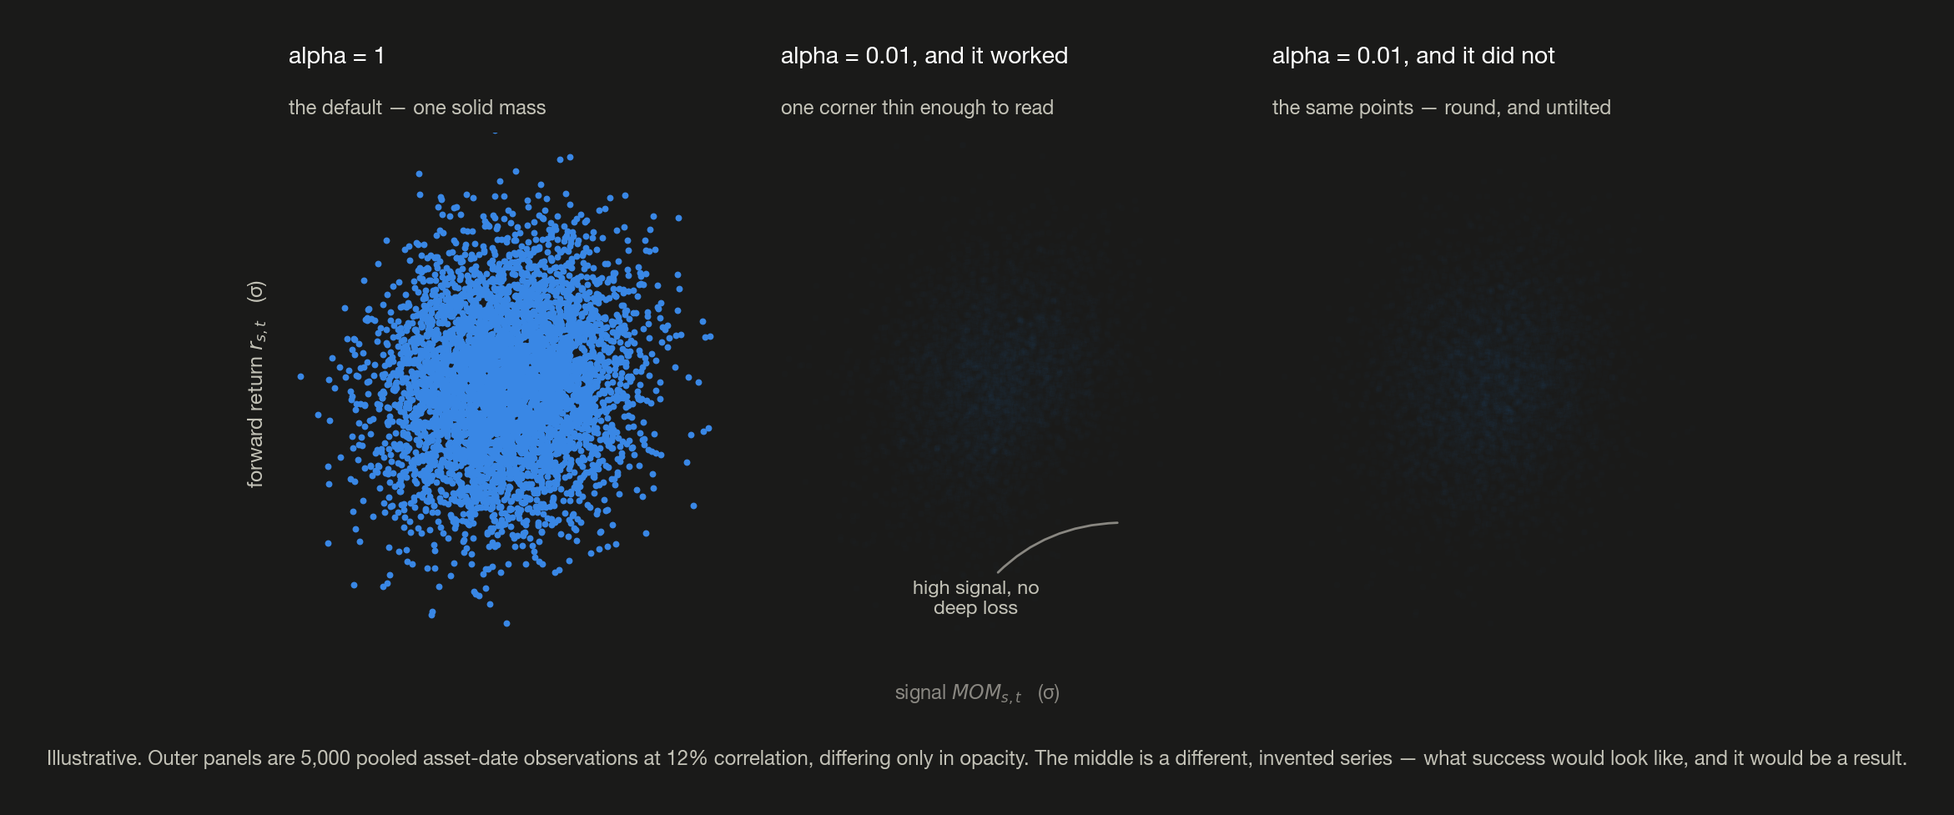
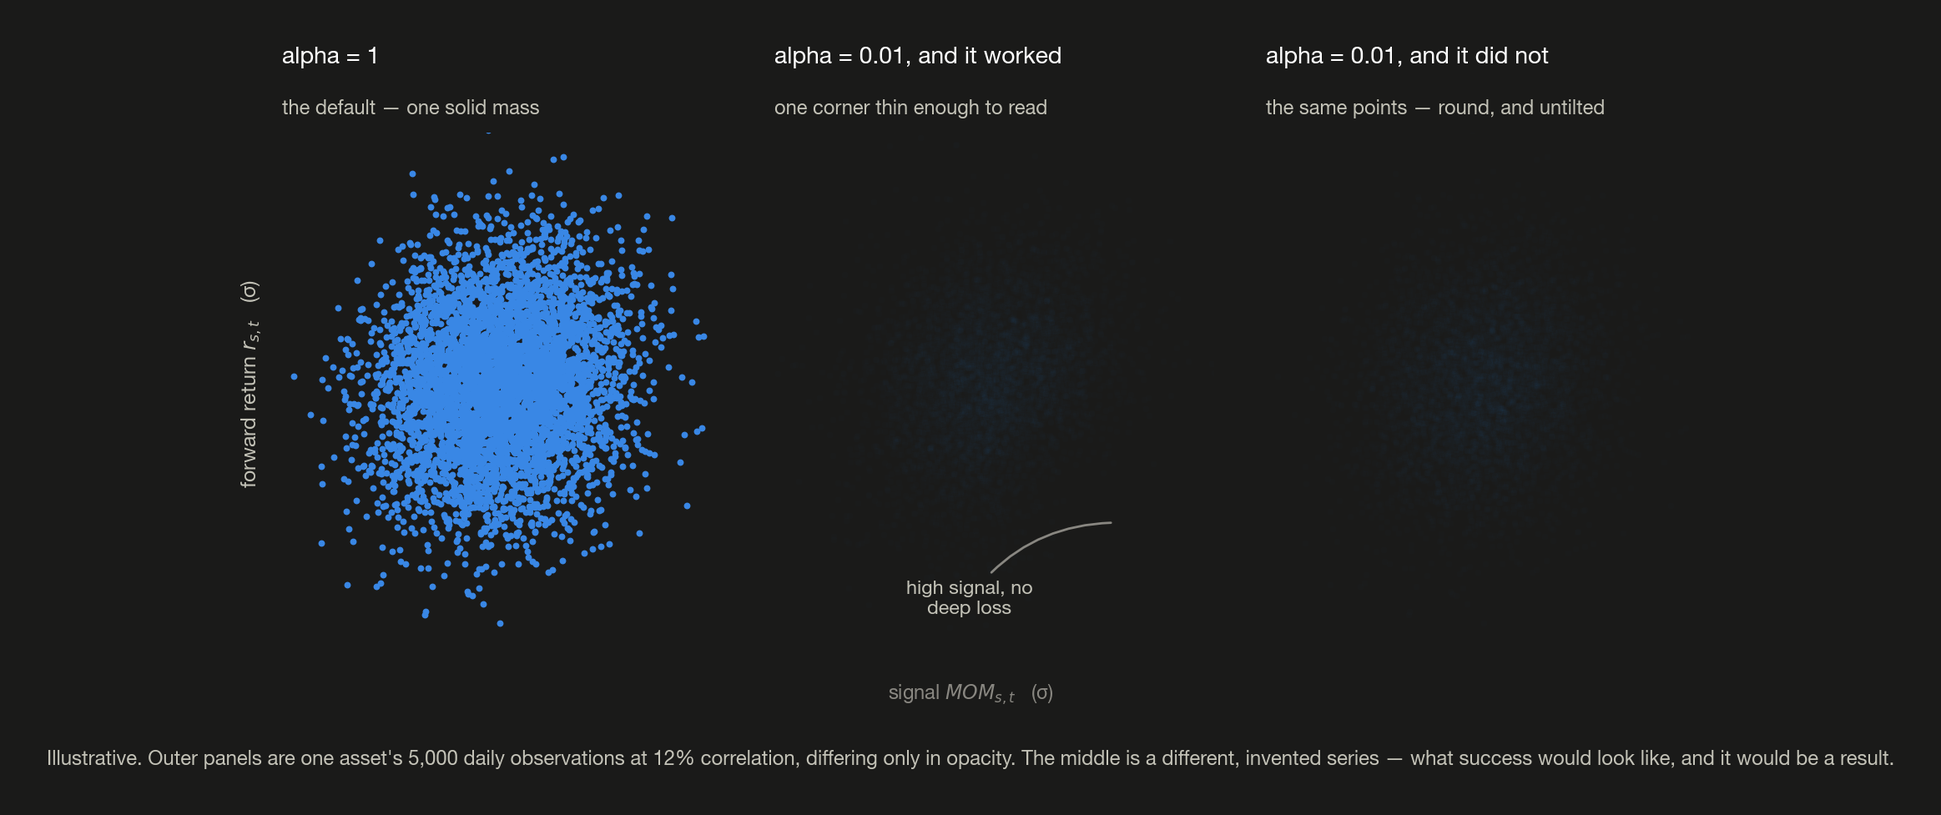
Redraw 02's bucket figures on one asset's own dates
three-bucketings runs on one asset over 6,000 days with a calm era and a
violent one, and its third cut goes back to the rolling quantile: raw values
put 68% and 71% violent-era dates in the two tails against a 40% base rate,
fixed intervals leave 159 and 157 observations in the buckets you would trade
against 3,369 in the middle, and the rolling quantile is flat at 40% with
about 1,000 everywhere. Section 5's table carries the new numbers.

bucket-time-collapse is rebuilt around the single-asset claim it now has to
make: dates strung along t, each at the slot it scored into, and the same
observations to the right with t discarded. bucket-construction and
alpha-opacity are relabelled from assets to dates.

diff --git a/docs/figures/make_02_building_signals.py b/docs/figures/make_02_building_signals.py
@@ -91,7 +91,7 @@ def alpha_opacity(mode):
     """02 s3.1 -- alpha turns ink into density; whether density reads is another matter.
 
     Schematic. Left and right are the same 5,000 illustrative points at 12%
-    correlation -- asset-date cells pooled across the panel --
+    correlation -- one asset's daily observations --
     drawn opaque and at a low opacity. The middle panel is a different,
     invented series: what the fix looks like when it works, a corner thin
     enough to read.
@@ -144,7 +144,7 @@ def alpha_opacity(mode):
                        fontsize=9, labelpad=8)
     fig.text(0.5, 0.01, "signal $MOM_{s,t}$   (σ)", ha="center", color=t["muted"], fontsize=8.5)
     fig.text(0.5, -0.09,
-             "Illustrative. Outer panels are 5,000 pooled asset-date observations at 12% "
+             "Illustrative. Outer panels are one asset's 5,000 daily observations at 12% "
              "correlation, differing only in opacity. The middle is a different, invented series — "
              "what success would look like, and it would be a result.",
              ha="center", color=t["ink_secondary"], fontsize=8.6)
@@ -170,16 +170,16 @@ def bucket_construction(mode):
     cy = 0.12 * cx + (1 - 0.12 ** 2) ** 0.5 * rng.standard_normal(n)
 
     def slots(px, py, k):
-        """k dates of five assets, each sorted by signal into rank slots G1..G5"""
+        """k draws of five dates, each sorted by signal into rank slots G1..G5"""
         idx = rng.randint(0, len(px), size=(k, 5))
         order = np.argsort(px[idx], axis=1)
         return np.take_along_axis(py[idx], order, axis=1), idx
 
     rows = (
-        (lx, ly, "If the relationship were perfect", "one date's five assets",
-         "every date comes out ordered"),
-        (cx, cy, "On the real cloud", "one date's five assets",
-         "every date comes back tangled"),
+        (lx, ly, "If the relationship were perfect", "any five dates, taken at random",
+         "every draw comes out ordered"),
+        (cx, cy, "On the real cloud", "any five dates, taken at random",
+         "every draw comes back tangled"),
     )
 
     fig, axes = plt.subplots(2, 3, figsize=(10.6, 6.6),
@@ -188,7 +188,7 @@ def bucket_construction(mode):
 
     for (px, py, head, sub, mid_sub), (ax, bx, cxx) in zip(rows, axes):
         ranked, idx = slots(px, py, shown)
-        picked = idx[:3].ravel()                     # three dates' worth, one colour
+        picked = idx[:3].ravel()                     # three draws' worth, one colour
 
         # ---- where the points come from
         style_axes(ax, t, ylabel="forward return $r_{s,t}$",
@@ -208,7 +208,7 @@ def bucket_construction(mode):
         bx.set_xticks(range(5))
         bx.set_xticklabels(["G1", "G2", "G3", "G4", "G5"])
         bx.set_yticks([])
-        titles(bx, t, f"{shown} dates, ranked", mid_sub)
+        titles(bx, t, f"{shown} draws, ranked", mid_sub)
 
         # ---- and the average of many, with the error on it
         allr, _ = slots(px, py, total)
@@ -227,7 +227,7 @@ def bucket_construction(mode):
         cxx.set_xticks(range(5))
         cxx.set_xticklabels(["G1", "G2", "G3", "G4", "G5"])
         cxx.set_yticks([])
-        titles(cxx, t, f"{total} dates, averaged", "bars with their error bars")
+        titles(cxx, t, f"{total} draws, averaged", "bars with their error bars")
 
     fig.text(0.5, -0.03,
              "Illustrative. Each row is scaled to its own height — the real staircase has the shape "
@@ -287,24 +287,19 @@ def noise_shrinks(mode):
 
 # ------------------- fig: one dataset, three ways of cutting it into buckets
 def three_bucketings(mode):
-    """02 s5 -- raw, standardized-at-fixed-intervals, and cross-sectional quantile.
+    """02 s5 -- raw, standardized-at-fixed-intervals, and rolling quantile.
 
-    Schematic. A simulated panel of 20 assets over 1,500 days. Every asset
-    carries the same risk-adjusted edge and its own volatility level, which
-    doubles on a date of its own. Only the bucketing differs between panels:
-    bar heights are mean forward return in bp on a shared scale, n is the count
-    behind each bar, and the second line is the share of that bucket drawn from
-    the top quartile of contemporaneous volatility -- 25% if the cut is
-    vol-neutral.
+    Schematic. One simulated asset over 6,000 days -- roughly twenty-four years
+    -- with a calm era and a violent one, carrying the same risk-adjusted edge
+    throughout. Only the bucketing differs between panels: bar heights are mean
+    forward return in bp on a shared scale, n is the count behind each bar, and
+    the second line is the share of that bucket drawn from the violent era.
     """
     t = THEMES[mode]
-    rng = np.random.RandomState(12)
-    A, T, W, rho = 20, 1500, 250, 0.12
+    rng = np.random.RandomState(9)
+    A, T, W, rho = 1, 6000, 500, 0.12
 
-    base = np.exp(rng.uniform(-1.0, 1.0, A))                   # each asset's own vol level
-    jump = rng.randint(W, T, A)                                # ... which doubles, on its own date
-    vol = base[None, :] * np.where(np.arange(T)[:, None] >= jump[None, :], 2.0, 1.0)
-
+    vol = np.where(np.arange(T) < 4000, 0.6, 2.0)[:, None]     # calm era, then violent
     z = rng.standard_normal((T, A))                            # the risk-adjusted signal
     fwd = 100 * vol * (rho * z + (1 - rho ** 2) ** 0.5 * rng.standard_normal((T, A)))
     raw = z * vol                                              # what you measure before scaling
@@ -313,13 +308,13 @@ def three_bucketings(mode):
     for i in range(W, T):
         sig[i] = raw[i] / raw[i - W:i].std(axis=0)
 
-    xs = np.full((T, A), np.nan)                               # rank within that date's peers
-    for i in range(W, T):
-        xs[i] = sig[i].argsort().argsort() / (A - 1.0)
+    xs = np.full((T, A), np.nan)                               # rank against its own past
+    for i in range(2 * W, T):
+        xs[i] = (sig[i - W:i] < sig[i]).mean(axis=0)
 
-    usable = np.zeros((T, A), bool)                            # same cells in all three panels
-    usable[W:] = True
-    hivol = vol >= np.quantile(vol[usable], 0.75)              # base rate 25% by construction
+    usable = np.zeros((T, A), bool)                            # same dates in all three panels
+    usable[2 * W:] = True
+    hivol = np.repeat((np.arange(T) >= 4000)[:, None], A, axis=1)
 
     def bars(key, edges=None):
         k, y, v = key.ravel(), fwd.ravel(), hivol.ravel()
@@ -337,8 +332,8 @@ def three_bucketings(mode):
         (bars(raw), "Raw values", "cut at the pooled quintiles of raw momentum"),
         (bars(sig, edges=np.array([-2.0, -1.0, 1.0, 2.0])), "Standardized, fixed intervals",
          "divided by trailing vol, then cut at ±1 and ±2"),
-        (bars(xs), "Cross-sectional quantile",
-         "ranked against that day's peers, then cut at the quintiles"),
+        (bars(xs), "Rolling quantile",
+         "ranked against its own past, then cut at the quintiles"),
     )
 
     fig, axes = plt.subplots(1, 3, figsize=(11.2, 4.3), sharey=True,
@@ -364,10 +359,10 @@ def three_bucketings(mode):
         titles(ax, t, head, sub)
 
     fig.text(0.5, -0.06,
-             "Illustrative. 20 assets over 1,500 days, each carrying the same risk-adjusted edge and "
-             "its own volatility level, with identical cells in all three panels — only the cut "
-             "differs.\nUnder each bar: how many observations it holds, and what share of them came "
-             "from the top quartile of volatility (25% if the cut is vol-neutral).",
+             "Illustrative. One asset over 6,000 days, calm and then violent, carrying the same "
+             "risk-adjusted edge throughout, with identical dates in all three panels — only the "
+             "cut differs.\nUnder each bar: how many observations it holds, and what share of them "
+             "came from the violent era.",
              ha="center", color=t["ink_secondary"], fontsize=8.6)
     save(fig, t, f"three-bucketings-{mode}.png")
 
@@ -471,92 +466,69 @@ def scatter_ladder(mode):
 
 # ------------------------- fig: how the time axis collapses into five bars
 def bucket_time_collapse(mode):
-    """02 s3.2.3 -- every date has its own cross-section; pooling them spends t.
+    """02 s3.2.3 -- every date lands in one slot; pooling them spends the t axis.
 
-    Schematic. Standing on each date is that date's cross-section: five assets,
-    ranked by signal into slots G1 to G5 across, forward return up. Not one of
-    them is ordered on its own. Pooling every date leaves the five averages --
-    and nothing about when any of it happened.
+    Schematic. Left: one asset's dates along t, each drawn at the slot its
+    signal scored into, so the same asset visits all five over the years and a
+    violent stretch is shaded. Right: step 5 averages down every column, which
+    hands back five numbers and no t at all.
     """
     t = THEMES[mode]
-    rng = np.random.RandomState(11)
+    rng = np.random.RandomState(6)
+    T, rho = 1400, 0.12
 
-    AX_Y = 6.6                       # the time axis
-    DATES = [1.7, 3.7, 5.7, 7.7, 9.7]
-    PW, PH, SHEAR = 1.15, 2.0, 0.5   # panel width, height, top-edge offset
+    z = rng.standard_normal(T)
+    fwd = 100 * (rho * z + (1 - rho ** 2) ** 0.5 * rng.standard_normal(T))
+    slot = np.digitize(z, np.quantile(z, [0.2, 0.4, 0.6, 0.8]))
+    day = np.arange(T)
 
-    fig, ax = plt.subplots(figsize=(9.0, 5.3))
+    fig, (ax, bx) = plt.subplots(
+        1, 2, figsize=(10.4, 4.0), gridspec_kw=dict(width_ratios=[2.35, 1], wspace=0.42))
     fig.patch.set_facecolor(t["surface"])
-    ax.set_facecolor(t["surface"])
-    ax.set_xlim(0.2, 14.0)
-    ax.set_ylim(1.05, 9.15)
-    ax.axis("off")
 
-    # ---- the time axis, with one mark per date
-    ax.annotate("", xy=(13.5, AX_Y), xytext=(0.7, AX_Y),
-                arrowprops=dict(arrowstyle="-|>", color=t["baseline"], linewidth=1.1,
-                                shrinkA=0, shrinkB=0))
-    ax.text(13.7, AX_Y - 0.30, "$t$", ha="left", va="center",
-            color=t["muted"], fontsize=10)
-    for x in DATES:
-        ax.plot([x], [AX_Y], marker="o", markersize=4.2, color=t["ink_secondary"],
-                zorder=4)
+    # ---- left: where each date landed, laid out along t
+    style_axes(ax, t, ylabel="slot the date scored into", xlabel="date $t$", grid=False)
+    ax.axvspan(900, T, color=t["grid"], zorder=0)
+    ax.text(1150, 4.72, "a violent stretch", color=t["muted"], fontsize=8.2, ha="center")
+    ax.scatter(day, slot + rng.uniform(-0.22, 0.22, T), s=5.0, color=t["series"],
+               alpha=0.30, linewidths=0, zorder=3)
+    ax.set_xlim(-30, T + 30)
+    ax.set_ylim(-0.75, 5.05)
+    ax.set_xticks([])
+    ax.set_yticks(range(5))
+    ax.set_yticklabels(["G1", "G2", "G3", "G4", "G5"], fontsize=8.4)
+    titles(ax, t, "Every date lands in one slot",
+           "one asset, and over the years it visits all five")
 
-    # ---- each date's own cross-section standing on it
-    for x in DATES:
-        x0, y0 = x - PW / 2, AX_Y + 0.12
-        ax.add_patch(Polygon(
-            [(x0, y0), (x0 + PW, y0), (x0 + PW + SHEAR, y0 + PH), (x0 + SHEAR, y0 + PH)],
-            closed=True, facecolor=t["surface"], edgecolor=t["baseline"],
-            linewidth=1.0, zorder=3))
-        for k in range(5):
-            fx = 0.16 + 0.17 * k                       # the asset's slot, G1 to G5
-            fy = rng.uniform(0.18, 0.82)               # the return it went on to deliver
-            ax.plot([x0 + fx * PW + SHEAR * fy], [y0 + fy * PH], marker="o",
-                    markersize=3.4, color=t["ramp"][5], zorder=4)
+    # ---- right: average down each column and t is gone
+    means = np.array([fwd[slot == j].mean() for j in range(5)])
+    errs = np.array([fwd[slot == j].std() / (slot == j).sum() ** 0.5 for j in range(5)])
+    style_axes(bx, t, ylabel="mean forward return $r_{s,t}$ (bp)", xlabel="signal bucket ($MOM$)")
+    for i, v in enumerate(means):
+        rounded_bar(bx, i, v, color=t["series"], width=0.34)
+    bx.errorbar(range(5), means, yerr=errs, fmt="none", ecolor=t["muted"],
+                elinewidth=1.1, capsize=3, capthick=1.1, zorder=5)
+    bx.axhline(0, color=t["baseline"], linewidth=0.9, zorder=2)
+    bx.set_xlim(-0.6, 4.6)
+    bx.set_xticks(range(5))
+    bx.set_xticklabels(["G1", "G2", "G3", "G4", "G5"], fontsize=8.4)
+    titles(bx, t, "Pooled over $t$", "five averages, and no $t$ left")
 
-    ax.text(11.1, AX_Y + 1.50,
-            "each panel is that date's\ncross-section — five assets,\n"
-            "signal slot G1 to G5 across,\nforward return $r_{s,t}$ up.\n"
-            "None of them is ordered",
-            ha="left", va="center", color=t["ink_secondary"], fontsize=8.3,
-            linespacing=1.5)
+    # ---- the collapse itself
+    fig.text(0.615, 0.46, "average\ndown each\ncolumn", ha="center", va="center",
+             color=t["ink_secondary"], fontsize=8.4)
+    fig.patches.append(plt.matplotlib.patches.FancyArrowPatch(
+        (0.578, 0.60), (0.652, 0.60), transform=fig.transFigure, figure=fig,
+        arrowstyle="-|>", mutation_scale=13, color=t["muted"], linewidth=1.1))
 
-    # ---- the collapse
-    ax.annotate("", xy=(3.7, 4.85), xytext=(3.7, AX_Y - 0.45),
-                arrowprops=dict(arrowstyle="-|>", color=t["ramp"][5], linewidth=1.3,
-                                shrinkA=0, shrinkB=0))
-    ax.text(4.05, 5.78, "pool every date, then average within each slot",
-            ha="left", va="center", color=t["ramp"][5], fontsize=8.6, fontweight="600")
-    ax.text(4.05, 5.42, "the $t$ axis is spent here, and does not come back",
-            ha="left", va="center", color=t["ink_secondary"], fontsize=8.3)
-
-    # ---- what pooling leaves: five averages
-    ZERO, SCALE = 3.40, 0.048
-    bars = [(-20, "G1"), (-9, "G2"), (2, "G3"), (10, "G4"), (20, "G5")]
-    xs = [1.9, 2.8, 3.7, 4.6, 5.5]
-    ax.plot([1.35, 6.05], [ZERO, ZERO], color=t["baseline"], linewidth=0.9, zorder=2)
-    for x, (bp, label) in zip(xs, bars):
-        rounded_bar(ax, x, bp * SCALE, base=ZERO, width=0.56, color=t["ramp"][5])
-        tip = ZERO + bp * SCALE
-        ax.plot([x, x], [tip - 0.17, tip + 0.17], color=t["ink_secondary"],
-                linewidth=1.0, zorder=5)
-        ax.text(x, 1.92, label, ha="center", va="center",
-                color=t["muted"], fontsize=8.4)
-    ax.text(6.35, ZERO, "monotone G1 to G5, and that is\nthe whole claim — it says\nnothing about when",
-            ha="left", va="center", color=t["ink_secondary"], fontsize=8.3,
-            linespacing=1.5)
-    ax.text(3.7, 1.42, "signal bucket ($MOM$)", ha="center", va="center",
-            color=t["muted"], fontsize=8.4)
-    ax.text(0.95, ZERO, "mean forward return $r_{s,t}$", rotation=90,
-            ha="center", va="center", color=t["ink_secondary"], fontsize=8.4)
-
-    titles(ax, t, "Every date brings its own cross-section; the pool keeps only the averages",
-           "illustrative — the bar plot is every date's ranking flattened onto one picture")
+    fig.text(0.5, -0.07,
+             "Illustrative. The left panel holds the whole sample and the right holds the same "
+             "observations with the date thrown away — which is why a staircase cannot say whether "
+             "the edge held throughout or only for a stretch.",
+             ha="center", color=t["ink_secondary"], fontsize=8.6)
     save(fig, t, f"bucket-time-collapse-{mode}.png")
 
 
-# ----------------------------- fig: which return a signal is paired with
 def signal_return_alignment(mode):
     """02 background -- the lookback, the discarded gap, and the paired return.
 

diff --git a/docs/02-building-signals.md b/docs/02-building-signals.md
@@ -279,7 +279,7 @@ of many with the error on it.
 
 <picture>
   <source media="(prefers-color-scheme: dark)" srcset="figures/bucket-construction-dark.png">
-  <img alt="Six panels in two rows, each row running the same steps on a different world. Left column, forward return against signal, the population with fifteen asset-date cells marked in the same colour: on a perfect line they sit along it, on the real cloud they sit anywhere. Middle column, six dates' cross-sections of five assets plotted against rank slots G1 to G5: on the line every date rises monotonically, on the cloud the six lines cross and tangle with no order at all. Right column, mean forward return per signal bucket averaged over 400 draws with error bars: a clean staircase on the line, and on the cloud a shorter staircase from a negative G1 to a positive G5 whose error bars are a third of the bar heights" src="figures/bucket-construction-light.png">
+  <img alt="Six panels in two rows, each row running the same steps on a different world. Left column, the population of one asset's dates with fifteen randomly drawn ones marked in the same colour: on a perfect relationship they sit along a line, on the real cloud they sit anywhere. Middle column, six draws of five dates plotted against rank slots G1 to G5: on the line every draw rises monotonically, on the cloud the six lines cross and tangle. Right column, the average over 400 draws with error bars: a clean staircase on the line, and on the cloud a shorter staircase from a negative G1 to a positive G5" src="figures/bucket-construction-light.png">
 </picture>
 
 **The sort key is the signal, never the return.** Step 2 orders by $MOM_{s,t}$, which is known at
@@ -369,7 +369,7 @@ flattens all of them onto one picture, five slots wide.
 
 <picture>
   <source media="(prefers-color-scheme: dark)" srcset="figures/bucket-time-collapse-dark.png">
-  <img alt="A horizontal time axis labelled t with five dates marked on it. Standing on each date is a small slanted panel holding that date's cross-section of five assets, signal slot G1 to G5 across and forward return up, and none of the five panels shows any ordering. An arrow labelled pool every date then average within each slot points down from the axis to a bar plot of mean forward return against signal bucket, five bars with error bars rising monotonically from about minus 20 basis points at G1 to plus 20 at G5, annotated that the ordering is the whole claim and that the chart says nothing about when the edge happened" src="figures/bucket-time-collapse-light.png">
+  <img alt="Two panels. Left, one asset's dates strung along a time axis, each dot drawn at the slot its signal scored into, so all five rows are populated throughout and a violent stretch at the right is shaded. Right, the same observations with the date discarded: five bars of mean forward return rising from G1 to G5, with error bars. An arrow between them is labelled average down each column" src="figures/bucket-time-collapse-light.png">
 </picture>
 
 Step 5 integrates over $t$, and an integral hands back an area, never the shape of the function
@@ -441,7 +441,7 @@ last, with a calm era and a violent one. Only the cut changes.
 
 <picture>
   <source media="(prefers-color-scheme: dark)" srcset="figures/three-bucketings-dark.png">
-  <img alt="Three bucket charts side by side, mean forward return in basis points against signal bucket, computed from the same 20-asset panel by three different cuts. All three rise monotonically from G1 to G5 and look equally healthy. Under each bar are two numbers: the observation count and the share of that bucket drawn from the top quartile of volatility, whose base rate is 25 percent. Cutting on raw values gives equal counts of 5,000 but high-volatility shares of 46, 13, 9, 12 and 46 percent, so the tails are nearly all high-volatility assets. Cutting the standardized signal at fixed intervals gives counts of 782, 3,518, 16,416, 3,514 and 770 with shares of 32 and 29 percent in the tails. Cutting at each date's cross-sectional quantiles gives 5,000 in every bucket and shares flat at 24 to 26 percent" src="figures/three-bucketings-light.png">
+  <img alt="Three bucket charts side by side, mean forward return in basis points against signal bucket, computed from one asset's 6,000-day history by three different cuts. All three rise from G1 to G5 and look equally healthy. Under each bar are two numbers: the observation count and the share of that bucket drawn from the sample's violent era. Cutting on raw values gives equal counts of 1,000 but violent shares of 68, 22, 16, 23 and 71 percent against a 40 percent base rate. Cutting the standardized signal at fixed intervals gives counts of 159, 640, 3,369, 675 and 157 with violent shares still tilted at 51 and 54 percent in the tails. Cutting at rolling quantiles gives roughly 1,000 in every bucket and violent shares flat at 39 to 41 percent" src="figures/three-bucketings-light.png">
 </picture>
 
 **Read the counts, not the bars.** All three staircases are monotone, and all three would pass
@@ -449,8 +449,8 @@ last, with a calm era and a violent one. Only the cut changes.
 
 | Cut                                     | What it answers                                                                                                    | What it distorts                                                                                                                                                                                                                       |
 | --------------------------------------- | ------------------------------------------------------------------------------------------------------------------ | -------------------------------------------------------------------------------------------------------------------------------------------------------------------------------------------------------------------------------------- |
-| **Raw values**                    | What the signal looks like at its own natural scale, before any modelling choice is imposed on it                  | **Volatility becomes the sort key.** Both tails are 46% high-volatility observations against a 25% base rate, and the middle is 9% — so the staircase is largely a volatility sort wearing the signal's name                    |
-| **Standardized, fixed intervals** | Whether the edge survives once every asset is put on a common scale (§ 4)                                         | **Starved tails.** 782 and 770 observations in the two buckets you would actually trade, against 16,416 in the middle one you would not. Trailing vol also lags an asset's own vol break, so the tails still tilt to 32% and 29% |
+| **Raw values**                    | What the signal looks like at its own natural scale, before any modelling choice is imposed on it                  | **Volatility becomes the sort key.** Both tails are about 70% violent-era observations against a 40% base rate, and the middle is 16% — so the staircase is largely a volatility sort wearing the signal's name                    |
+| **Standardized, fixed intervals** | Whether the edge survives once every date is put on a common scale (§ 4)                                         | **Starved tails.** 159 and 157 observations in the two buckets you would actually trade, against 3,369 in the middle one you would not. Trailing vol also lags a change of regime, so the tails still tilt to 51% and 54% |
 | **Rolling quantile** | Whether the ordering holds using only what was knowable at the time — the only one of the three with no look-ahead | **Magnitude is discarded.** A date at the 95th percentile of the asset's own past scores the same whether the signal was +2% or +20%, and that difference carried information |
 
 None of the three dominates, so produce all three and read them against each other. A staircase that
